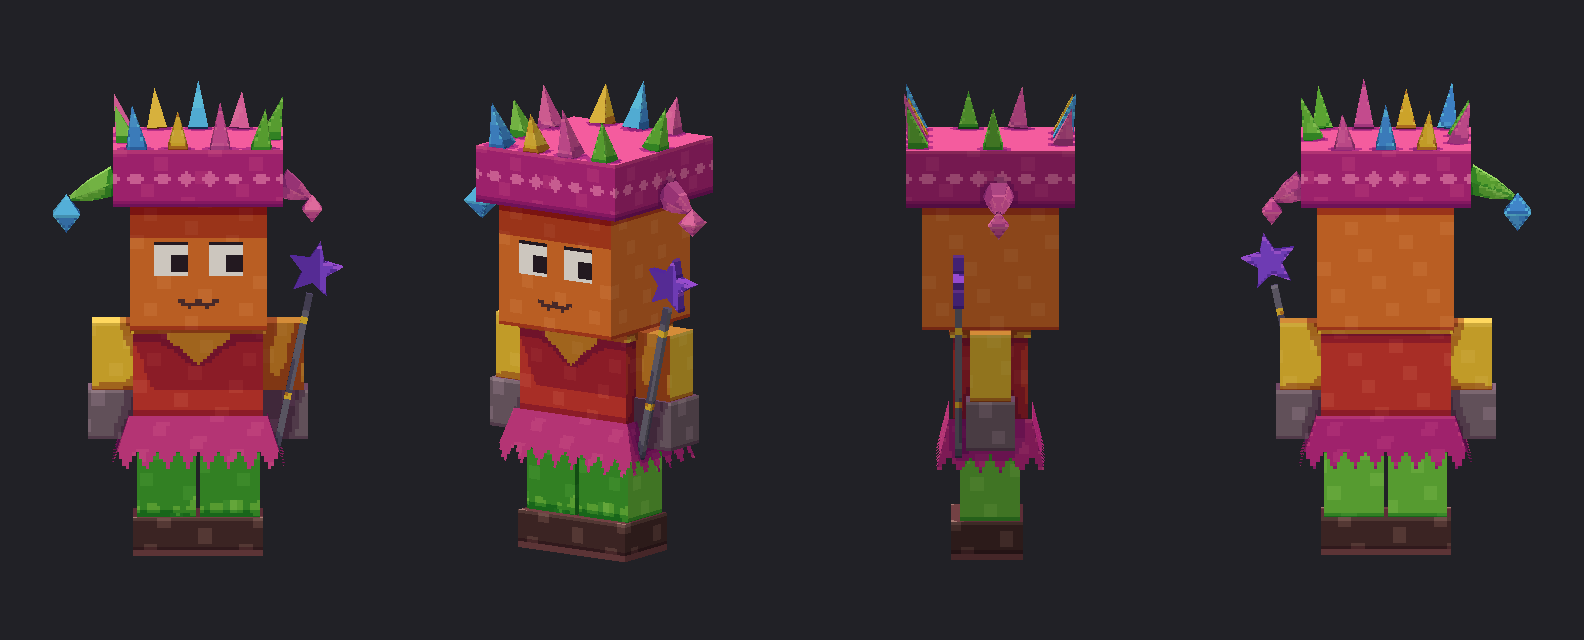
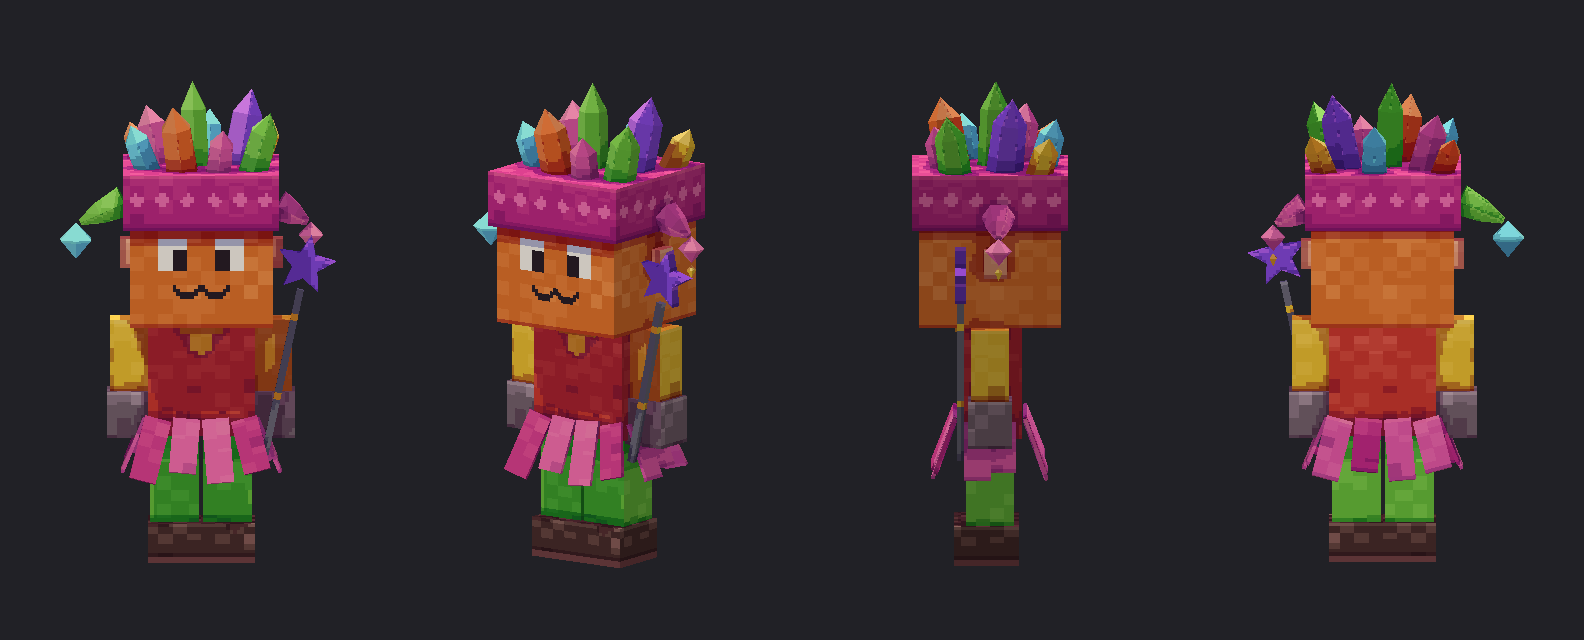
Revolthir boceto 3: cara, cristales, corona baja, orejas, falda y textura
- ojos con las pupilas hacia adentro (se miran entre si) y bigotito en w
  con las puntas para arriba, como la referencia
- corona baja, tapa la cabeza hasta arriba de los ojos, y encima un racimo
  de cristales facetados de colores; cascabeles tambien de cristal
- orejitas de bloque a los costados de la cabeza
- falda de solapas sueltas de distintos largos y tonos que se abren
- textura de bloques: cada px toma un tono de su rampa segun la altura en
  la pieza, ondas suaves y una matriz de Bayer (patron fijo, sin azar);
  la cabeza mas clara
- cuerpo mas delgado (torso 7.5, brazos 2.6, piernas 3.4)

Claude-Session: https://claude.ai/code/session_01JLSuk79QgXUucDMTiBYitK

diff --git a/taller/personajes/revolthir.py b/taller/personajes/revolthir.py
@@ -4,15 +4,16 @@ usuario (referencias/personajes/revolthir_bufon.jpg) y las formas que marco enci
 (revolthir_bufon_rayas.jpg). Reglas: no es humano (cabeza-cubo naranja, sin piel), chibi de la misma altura que
 Pibble (nada mas que la altura), estilo propio: carnaval caotico, ni desertico, ni japones, ni de bosque.
 
-Formas (todo en bloques, como la referencia; picos, cascabeles y estrella en low-poly):
-  CABEZA-CUBO naranja con ojos grandes blancos que miran de reojo y una boquita en zigzag
-  CORONA DE BUFON: una caja grande magenta, mas ancha que la cabeza, con rombos y picos de colores en el borde de
-    arriba; a los costados, dos puntas con cascabeles facetados (uno grande azul, uno chico rosa)
-  TORSO rojo y ancho con un cuello amarillo en punta debajo de la cara; FALDON magenta que se abre hacia abajo y
-    termina en picos
-  MANGAS amarillas con PUNOS grandes; PIERNAS verdes gruesas; BOTAS en bloque
+Formas (en bloques, como la referencia; cristales, cascabeles y estrella en low-poly):
+  CABEZA-CUBO naranja con orejitas de bloque, ojos blancos con las pupilas hacia adentro (se miran entre si) y un
+    bigotito en "w" con las puntas para arriba
+  CORONA DE BUFON magenta bien abajo (tapa la cabeza hasta arriba de los ojos) y encima un racimo de CRISTALES de
+    colores; a los costados, dos puntas con cascabeles de cristal (uno grande celeste, uno rosa con gotita dorada)
+  TORSO rojo y delgado con el cuello amarillo en punta; FALDA de solapas sueltas de distintos largos y tonos
+  MANGAS amarillas con PUNOS grandes; PIERNAS verdes; BOTAS en bloque
   VARITA en la mano izquierda: baston con bandas y una estrella morada
-Paleta calida y saltona, cada color con su rampa (hue shifting) y sin ruido; el volumen lo pone la luz horneada.
+Textura de bloques: cada px es un bloquecito de su rampa, mas claro arriba y mas oscuro abajo, con un patron fijo
+(ondas suaves + una matriz de Bayer), nada al azar. El volumen lo termina la luz horneada.
 """
 
 import math
@@ -24,15 +25,17 @@ from ..textura import TRANSPARENTE, hex_a_rgba as hex_
 D = 4                                   # texeles por px
 
 NARANJA = tonos("#E8762C")              # la cabeza
-MAGENTA = tonos("#C42A86")              # corona y faldon
+OREJA = tonos("#F0A07C")                # orejitas
+MAGENTA = tonos("#C42A86")              # corona
+ROSA = tonos("#E85AA8")                 # falda, cristales, cascabel chico
 ROJO = tonos("#D23A30")                 # torso
-AMARILLO = tonos("#F2C232")             # mangas, cuello y picos
-VERDE = tonos("#6CC23C")                # piernas y picos
+AMARILLO = tonos("#F2C232")             # mangas, cuello, gotita
+VERDE = tonos("#6CC23C")                # piernas, cristales, punta
 GUANTE = tonos("#7A6470")               # punos
 BOTA = tonos("#4A2E2C")                 # botas
-MORADO = tonos("#8A4AE0")               # la estrella
-ROSA = tonos("#E85AA8")                 # picos y cascabel chico
-AZUL = tonos("#4A9AE8")                 # picos y cascabel grande
+MORADO = tonos("#8A4AE0")               # la estrella, cristales
+CELESTE = tonos("#6AC8F0")              # cascabel grande, cristales
+FUEGO = tonos("#F06A2A")                # cristales
 GRIS = tonos("#6E6A78")                 # baston
 OJO, PUPILA = "#FFF8EE", "#1A1218"
 
@@ -40,17 +43,29 @@ TOPE = 27.0                             # la cabeza va de 17 a 27: la altura de 
 CABEZA_Y = 17.0
 PIERNAS = 9.0                           # la cadera
 
+BAYER = ((0, 8, 2, 10), (12, 4, 14, 6), (3, 11, 1, 9), (15, 7, 13, 5))
 
-def voxel(rampa):
-    """Color plano con algun bloquecito apenas mas claro en un patron fijo (aire de voxel, sin ruido)."""
-    b, l = hex_(rampa["b"]), hex_(rampa["l"])
+
+def voxel(rampa, claro=0.0):
+    """Textura de bloques de 1 px: cada bloque toma un tono de la rampa (sombra, base, medio, luz) segun la altura
+    dentro de la pieza (mas claro arriba), unas ondas suaves y una matriz de Bayer. Siempre el mismo patron."""
+    s, b, l = hex_(rampa["s"]), hex_(rampa["b"]), hex_(rampa["l"])
     medio = tuple((x + y) // 2 for x, y in zip(b, l))
+    tonos4 = (s, b, medio, l)
 
     def p(t):
-        if t.cara == "up":
-            return l
-        cx, cy = math.floor(t.x + t.z), math.floor(t.y)
-        return medio if (3 * cx + 5 * cy) % 7 == 0 else b
+        if t.cara in ("up", "down"):
+            u, v = t.x, t.z
+            r = 1.0 if t.cara == "up" else 0.0
+        else:
+            u = t.x if abs(t.n[2]) >= abs(t.n[0]) else t.z
+            v = t.y
+            alto = max(1e-6, t.t[1] - t.f[1])
+            r = (t.y - t.f[1]) / alto
+        cu, cv = math.floor(u + 100), math.floor(v + 100)
+        f = 0.5 + 0.2 * math.sin(cu * 0.9 + cv * 0.5) * math.cos(cv * 0.8 - cu * 0.35) + 0.28 * (r - 0.5) + claro
+        f += ((BAYER[cv % 4][cu % 4] + 0.5) / 16 - 0.5) * 0.4
+        return tonos4[0 if f < 0.22 else 1 if f < 0.6 else 2 if f < 0.8 else 3]
     return p
 
 
@@ -61,66 +76,83 @@ def _trazo(u, v, a, b, grosor):
     return math.hypot(u - ax - k * dx, v - ay - k * dy) <= grosor / 2
 
 
+BIGOTE = [(-1.8, 2.75), (-1.45, 2.2), (-0.75, 2.2), (0.0, 2.75), (0.75, 2.2), (1.45, 2.2), (1.8, 2.75)]
+
+
 def cara(t):
-    """Ojos grandes blancos con la pupila corrida a la derecha de quien mira (de reojo, travieso), un parpado oscuro
-    arriba y una boquita en zigzag."""
+    """Ojos blancos con la pupila abajo y hacia adentro (se miran entre si) y un bigotito en w con las puntas para
+    arriba."""
     u, v = -t.x, t.y - CABEZA_Y                              # u: hacia la derecha de quien mira; v: desde el menton
     for lado in (-1, 1):
-        u0, u1 = (0.8, 3.2) if lado > 0 else (-3.2, -0.8)
-        if u0 <= u <= u1 and 4.0 <= v <= 6.4:
-            if v > 6.15:
-                return hex_(PUPILA)                          # parpado
-            if u1 - 1.15 <= u <= u1 - 0.05 and 4.15 <= v <= 5.45:
-                return hex_(PUPILA)                          # pupila de reojo
+        u0, u1 = (0.9, 3.0) if lado > 0 else (-3.0, -0.9)
+        if u0 <= u <= u1 and 4.0 <= v <= 6.3:
+            adentro = (u0, u0 + 1.05) if lado > 0 else (u1 - 1.05, u1)
+            if adentro[0] <= u <= adentro[1] and 4.0 <= v <= 5.4:
+                return hex_(PUPILA)
             return hex_(OJO)
-    puntos = [(-1.3, 2.1), (-0.65, 1.7), (0.0, 2.1), (0.65, 1.7), (1.3, 2.1)]
-    if any(_trazo(u, v, puntos[k], puntos[k + 1], 0.3) for k in range(len(puntos) - 1)):
-        return hex_(BOTA["s"])
-    return voxel(NARANJA)(t)
+    if any(_trazo(u, v, BIGOTE[k], BIGOTE[k + 1], 0.36) for k in range(len(BIGOTE) - 1)):
+        return hex_(PUPILA)
+    return CABEZA_TEX(t)
+
+
+CABEZA_TEX = voxel(NARANJA, claro=0.14)                 # la cabeza mas clara y calida, sin manchas oscuras
 
 
 def cabeza(t):
-    return cara(t) if t.cara == "north" else voxel(NARANJA)(t)
+    return cara(t) if t.cara == "north" else CABEZA_TEX(t)
 
 
-CORONA_Y = (TOPE - 0.8, TOPE + 3.4)     # la caja de la corona
+CORONA_Y = (TOPE - 3.1, TOPE + 0.8)     # la corona tapa la cabeza hasta arriba de los ojos
 
 
 def corona(t):
-    """Caja magenta: banda oscura abajo, una fila de rombos claros al medio y el canto de arriba con luz."""
-    if t.cara == "up":
-        return hex_(MAGENTA["l"])
-    if t.cara == "down":
-        return hex_(MAGENTA["s"])
-    u = t.x if t.cara in ("north", "south") else t.z
-    y0, y1 = CORONA_Y
-    v = t.y - (y0 + y1) / 2
-    if abs((u % 1.8) - 0.9) + abs(v) * 1.1 < 0.62:
-        return hex_(ROSA["l"])
-    if t.y < y0 + 0.6:
-        return hex_(MAGENTA["s"])
+    """Banda magenta de bloques con una fila de rombos claros y el borde de abajo oscuro."""
+    if t.cara not in ("up", "down"):
+        u = t.x if t.cara in ("north", "south") else t.z
+        y0, y1 = CORONA_Y
+        v = t.y - (y0 + y1) / 2 - 0.2
+        if abs((u % 1.8) - 0.9) + abs(v) * 1.1 < 0.6:
+            return hex_(ROSA["l"])
+        if t.y < y0 + 0.5:
+            return hex_(MAGENTA["s"])
     return voxel(MAGENTA)(t)
 
 
-def con_picos(base, y_abajo, alto=0.9, ancho=1.0):
-    """Recorta el borde de abajo de una pieza en picos (volados de bufon)."""
+def cristal(rampa):
+    """Cristal facetado: las caras que miran a la izquierda de quien mira y arriba con luz, las de atras oscuras,
+    y una veta clara a lo largo de cada cara."""
     def p(t):
-        if t.cara == "down":
-            return TRANSPARENTE
-        if t.cara != "up":
-            u = t.x if abs(t.n[2]) >= abs(t.n[0]) else t.z
-            f = abs(((u / ancho) % 1.0) - 0.5) * 2              # 0 en la punta, 1 entre puntas
-            if t.y - y_abajo < alto * f:
-                return TRANSPARENTE
-        return base(t)
+        n = t.n
+        if n[1] > 0.55:
+            return hex_(rampa["h"])
+        if n[2] > 0.5:
+            return hex_(rampa["s"])
+        if n[0] > 0.3:
+            return hex_(rampa["l"])
+        return hex_(rampa["b"])
     return p
 
 
+def pieza_cristal(x, y, z, r, alto, giro, lados=6):
+    """Cristal: prisma de 'lados' con punta, de radio r y alto 'alto', inclinado 'giro' desde su base."""
+    cuerpo = geo.loft([(y, x, z, r, r), (y + alto * 0.68, x, z, r * 0.92, r * 0.92)], lados, 30, tapa_arriba=False)
+    tope = geo.piramide(geo.anillo(x, y + alto * 0.68, z, r * 0.92, r * 0.92, lados, 30), (x, y + alto, z), tapa=False)
+    return geo.girar(geo.unir(cuerpo, tope), giro, (x, y, z))
+
+
+def falda_solapa(t):
+    """Solapa de la falda: rosa de bloques, mas oscura abajo."""
+    return voxel(ROSA)(t)
+
+
 def babero(t):
-    """Cuello amarillo en punta: el borde de abajo baja en V hasta el centro."""
-    if t.y < CABEZA_Y - 2.9 + abs(t.x) * 0.9:
-        return TRANSPARENTE
-    return voxel(AMARILLO)(t)
+    """Cuello amarillo: una barra arriba y una lengueta que baja en punta al centro."""
+    u, v = t.x, t.y - (CABEZA_Y - 0.8)
+    if v > 0:
+        return voxel(AMARILLO)(t)
+    if abs(u) < 0.75 and v > -1.6 + abs(u) * 0.8:
+        return voxel(AMARILLO)(t)
+    return TRANSPARENTE
 
 
 def bota(t):
@@ -154,13 +186,8 @@ def pintor_estrella(cx, cy):
     return p
 
 
-def cascabel(c, lado):
-    """Cascabel facetado: un octaedro (dos piramides) de lado 'lado', como una gema."""
-    return geo.bipiramide(c, lado * 0.62, lado * 0.62, lado * 0.62, lados=4, giro=45)
-
-
 def punta(base, largo, giro):
-    """Punta de bufon: cono de 6 lados que sale de 'base' girado 'giro' grados (rz)."""
+    """Punta de bufon: cono de 6 lados que sale de 'base' girado 'giro' grados (rz). Devuelve (malla, punta)."""
     m = geo.loft([(0.0, 0, 0, 1.2, 1.2), (largo * 0.55, 0, 0, 0.85, 0.85), (largo, 0, 0, 0.25, 0.25)], 6, 30)
     m = geo.girar(m, (0, 0, giro))
     a = math.radians(giro)
@@ -169,61 +196,78 @@ def punta(base, largo, giro):
 
 
 def construir():
-    p = Personaje("revolthir", altura=27, cabeza=10, torso=(9.5, 8, 5.5), brazo=(3, 3), pierna=(4.5, 4.5))
+    p = Personaje("revolthir", altura=27, cabeza=10, torso=(7.5, 8, 4.5), brazo=(2.6, 2.6), pierna=(3.4, 3.4))
     C, T, L = p.cuello, p.tope, p.lh                           # 17, 27, 9
     assert (C, T, L) == (CABEZA_Y, TOPE, PIERNAS)
 
-    # ================================================================ CABEZA-CUBO y CORONA DE BUFON
+    # ================================================================ CABEZA-CUBO con OREJITAS
     p.caja("Head/cabeza", "cabeza", (-5, C, -5), (5, T, 5), cabeza, dens=D)
-    y0, y1 = CORONA_Y
-    p.caja("Head/corona", "corona", (-6.2, y0, -6.2), (6.2, y1, 6.2), corona, dens=D)
-    colores = (VERDE, ROSA, AMARILLO, AZUL, VERDE, ROSA, AMARILLO, AZUL, ROSA, VERDE)
-    picos = [((-4.6, -5.3), 3.2, (-14, 0, 6)), ((-1.6, -5.3), 3.8, (-16, 0, 0)), ((1.5, -5.3), 3.0, (-14, 0, 0)),
-             ((4.5, -5.3), 3.5, (-14, 0, -6)), ((5.3, -1.6), 2.8, (0, 0, -16)), ((5.3, 2.0), 3.2, (6, 0, -16)),
-             ((3.0, 5.3), 3.0, (14, 0, -4)), ((0.0, 5.3), 3.6, (16, 0, 0)), ((-3.0, 5.3), 2.8, (14, 0, 4)),
-             ((-5.3, 0.2), 3.3, (0, 0, 16))]
-    for k, ((x, z), alto, giro) in enumerate(picos):
-        base = geo.anillo(x, y1, z, 1.05, 1.05, 4, 45)
-        pico = geo.girar(geo.piramide(base, (x, y1 + alto, z)), giro, (x, y1, z))
-        p.malla("Head/corona", f"pico{k}", pico, voxel(colores[k]), dens=D)
-    # puntas de bufon a los costados con sus cascabeles: el grande cae a la derecha del personaje, el chico a la otra
-    malla, tip = punta((6.0, y0 + 1.2, -0.5), 3.6, -112)
-    p.malla("Head/corona", "punta_der", malla, voxel(VERDE), dens=D)
-    p.malla("Head/corona", "cascabel_der", cascabel((tip[0] + 0.3, tip[1] - 1.1, tip[2]), 2.3), voxel(AZUL), dens=D)
-    malla, tip = punta((-6.0, y0 + 0.9, 0.6), 2.4, 118)
-    p.malla("Head/corona", "punta_izq", malla, voxel(ROSA), dens=D)
-    p.malla("Head/corona", "cascabel_izq", cascabel((tip[0] - 0.2, tip[1] - 0.8, tip[2]), 1.7), voxel(ROSA), dens=D)
+    for s in (1, -1):
+        x1, x2 = sorted((s * 5.0, s * 5.7))
+        p.caja("Head/cabeza", f"oreja{s}", (x1, C + 3.6, -0.4), (x2, C + 5.6, 1.2), voxel(OREJA), dens=D)
 
-    # ================================================================ TORSO ancho, CUELLO en punta y FALDON abierto
-    p.caja("Body/torso", "torso", (-4.75, L, -2.75), (4.75, C, 2.75), voxel(ROJO), dens=D)
-    p.caja("Body/torso", "cuello", (-4.95, C - 0.6, -2.95), (4.95, C + 0.05, 2.95), voxel(AMARILLO), dens=D)
-    p.caja("Body/torso", "babero", (-2.3, C - 2.9, -3.0), (2.3, C - 0.55, -2.8), babero, dens=D)
-    falda = geo.loft([(L - 2.4, 0, 0, 6.3 / 0.7071, 4.0 / 0.7071), (L + 1.4, 0, 0, 5.05 / 0.7071, 3.05 / 0.7071)],
-                     4, 45, tapa_abajo=False, tapa_arriba=False)
-    p.malla("Body/faldon", "faldon", falda, con_picos(voxel(MAGENTA), L - 2.4, 1.3, 1.5), dens=D)
+    # ================================================================ CORONA baja y CRISTALES encima
+    g = "Head/corona"
+    y0, y1 = CORONA_Y
+    p.caja(g, "corona", (-5.45, y0, -5.45), (5.45, y1, 5.45), corona, dens=D)
+    cristales = [((-3.6, -2.4), 1.15, 4.6, (-8, 0, 16), VERDE), ((-1.2, -3.1), 1.0, 3.4, (-14, 0, 6), ROSA),
+                 ((1.3, -2.6), 1.25, 5.0, (-10, 0, -8), FUEGO), ((3.7, -1.6), 1.0, 3.6, (-6, 0, -20), CELESTE),
+                 ((-2.6, 1.0), 1.3, 5.6, (6, 0, 10), MORADO), ((0.4, 0.2), 1.1, 6.2, (2, 0, -2), VERDE),
+                 ((2.8, 1.8), 1.2, 4.4, (10, 0, -14), ROSA), ((-4.0, 3.4), 0.95, 3.2, (14, 0, 20), AMARILLO),
+                 ((-0.6, 3.6), 1.0, 3.8, (16, 0, 0), CELESTE), ((4.1, 3.6), 0.9, 3.0, (16, 0, -18), FUEGO)]
+    for k, ((x, z), r, alto, giro, col) in enumerate(cristales):
+        p.malla(g, f"cristal{k}", pieza_cristal(x, y1 - 0.3, z, r, alto, giro), cristal(col), dens=D)
+    # puntas a los costados con cascabeles de cristal: el grande celeste a la derecha del personaje
+    malla, tip = punta((5.4, y0 + 1.4, -0.4), 3.4, -116)
+    p.malla(g, "punta_der", malla, voxel(VERDE), dens=D)
+    p.malla(g, "cascabel_der", geo.bipiramide((tip[0] + 0.3, tip[1] - 1.2, tip[2]), 1.25, 1.2, 1.4, lados=6, giro=30),
+            cristal(CELESTE), dens=D)
+    malla, tip = punta((-5.4, y0 + 1.0, 0.6), 2.4, 120)
+    p.malla(g, "punta_izq", malla, voxel(ROSA), dens=D)
+    cas = (tip[0] - 0.2, tip[1] - 0.9, tip[2])
+    p.malla(g, "cascabel_izq", geo.bipiramide(cas, 0.95, 0.9, 1.0, lados=6, giro=30), cristal(ROSA), dens=D)
+    p.malla(g, "gotita", geo.bipiramide((cas[0], cas[1] - 1.5, cas[2]), 0.35, 0.35, 0.6, lados=4, giro=45),
+            cristal(AMARILLO), dens=D)
+
+    # ================================================================ TORSO delgado, CUELLO en punta y FALDA de solapas
+    p.caja("Body/torso", "torso", (-3.75, L, -2.25), (3.75, C, 2.25), voxel(ROJO), dens=D)
+    p.caja("Body/torso", "cuello", (-1.5, C - 2.5, -2.45), (1.5, C - 0.05, -2.25), babero, dens=D)
+    # solapas: (centro en el borde de la cintura, largo, hacia donde se abren); se abren un poco hacia afuera
+    solapas = []
+    for k, x in enumerate((-3.0, -1.0, 1.0, 3.0)):
+        # rx > 0 lleva la punta de abajo hacia adelante; rz > 0, hacia +X
+        solapas.append(((x, -2.45), (1.9, 0.25), 3.9 + 0.7 * (k % 2), (20, 0, 5 * x)))       # adelante
+        solapas.append(((x, 2.45), (1.9, 0.25), 4.4 - 0.6 * (k % 2), (-20, 0, 5 * x)))       # atras
+    for s in (1, -1):
+        solapas.append(((s * 3.95, -0.9), (0.25, 1.9), 4.2, (0, 0, 22 * s)))                 # costados
+        solapas.append(((s * 3.95, 0.9), (0.25, 1.9), 3.6, (0, 0, 22 * s)))
+    for k, ((x, z), (w, d), largo, giro) in enumerate(solapas):
+        arriba = L + 1.2
+        p.caja("Body/falda", f"solapa{k}", (x - w / 2, arriba - largo, z - d / 2), (x + w / 2, arriba, z + d / 2),
+               voxel(ROSA if k % 3 else MAGENTA), rot=giro, piv=(x, arriba, z), dens=D)
 
     # ================================================================ BRAZOS: mangas amarillas y punos grandes
     for s in (1, -1):
         hueso = "RightArm" if s > 0 else "LeftArm"
-        x1, x2 = sorted((s * 4.75, s * 7.75))
-        g1, g2 = sorted((s * 4.45, s * 8.05))
-        p.caja(f"{hueso}/brazo", "manga", (x1, L + 2.9, -1.5), (x2, C, 1.5), voxel(AMARILLO), dens=D)
-        p.caja(f"{hueso}/brazo", "puno", (g1, L - 0.5, -1.8), (g2, L + 3.1, 1.8), voxel(GUANTE), dens=D)
+        x1, x2 = sorted((s * 3.75, s * 6.35))
+        g1, g2 = sorted((s * 3.5, s * 6.6))
+        p.caja(f"{hueso}/brazo", "manga", (x1, L + 2.9, -1.3), (x2, C, 1.3), voxel(AMARILLO), dens=D)
+        p.caja(f"{hueso}/brazo", "puno", (g1, L - 0.3, -1.55), (g2, L + 3.0, 1.55), voxel(GUANTE), dens=D)
 
     # ================================================================ VARITA de estrella en la mano izquierda
     g = "LeftArm/varita"
-    piv = (-6.25, L + 1.4, -2.3)
+    piv = (-5.05, L + 1.4, -2.05)
     giro = dict(rot=(0, 0, 12), piv=piv)
-    p.caja(g, "baston", (-6.5, L - 1.4, -2.55), (-6.0, L + 10.5, -2.05), baston, dens=D, **giro)
-    cx, cy = -6.25, L + 12.3
-    malla = geo.extruir(estrella(cx, cy, 2.1, 0.95), -2.7, -1.9)
+    p.caja(g, "baston", (-5.3, L - 1.4, -2.3), (-4.8, L + 10.5, -1.8), baston, dens=D, **giro)
+    cx, cy = -5.05, L + 12.3
+    malla = geo.extruir(estrella(cx, cy, 2.1, 0.95), -2.45, -1.65)
     p.malla(g, "estrella", geo.girar(malla, (0, 0, 12), piv), pintor_estrella(cx, cy), dens=D)
 
-    # ================================================================ PIERNAS verdes gruesas y BOTAS en bloque
+    # ================================================================ PIERNAS verdes y BOTAS en bloque
     for s in (1, -1):
         hueso = "RightLeg" if s > 0 else "LeftLeg"
-        x1, x2 = sorted((s * 0.15, s * 4.5))
-        b1, b2 = sorted((s * 0.0, s * 4.75))
-        p.caja(f"{hueso}/pierna", "pierna", (x1, 2.6, -2.2), (x2, L, 2.2), voxel(VERDE), dens=D)
-        p.caja(f"{hueso}/bota", "bota", (b1, 0.0, -2.9), (b2, 2.8, 2.4), bota, dens=D)
+        x1, x2 = sorted((s * 0.15, s * 3.55))
+        b1, b2 = sorted((s * 0.0, s * 3.75))
+        p.caja(f"{hueso}/pierna", "pierna", (x1, 2.6, -1.7), (x2, L, 1.7), voxel(VERDE), dens=D)
+        p.caja(f"{hueso}/bota", "bota", (b1, 0.0, -2.5), (b2, 2.8, 2.0), bota, dens=D)
     return p
